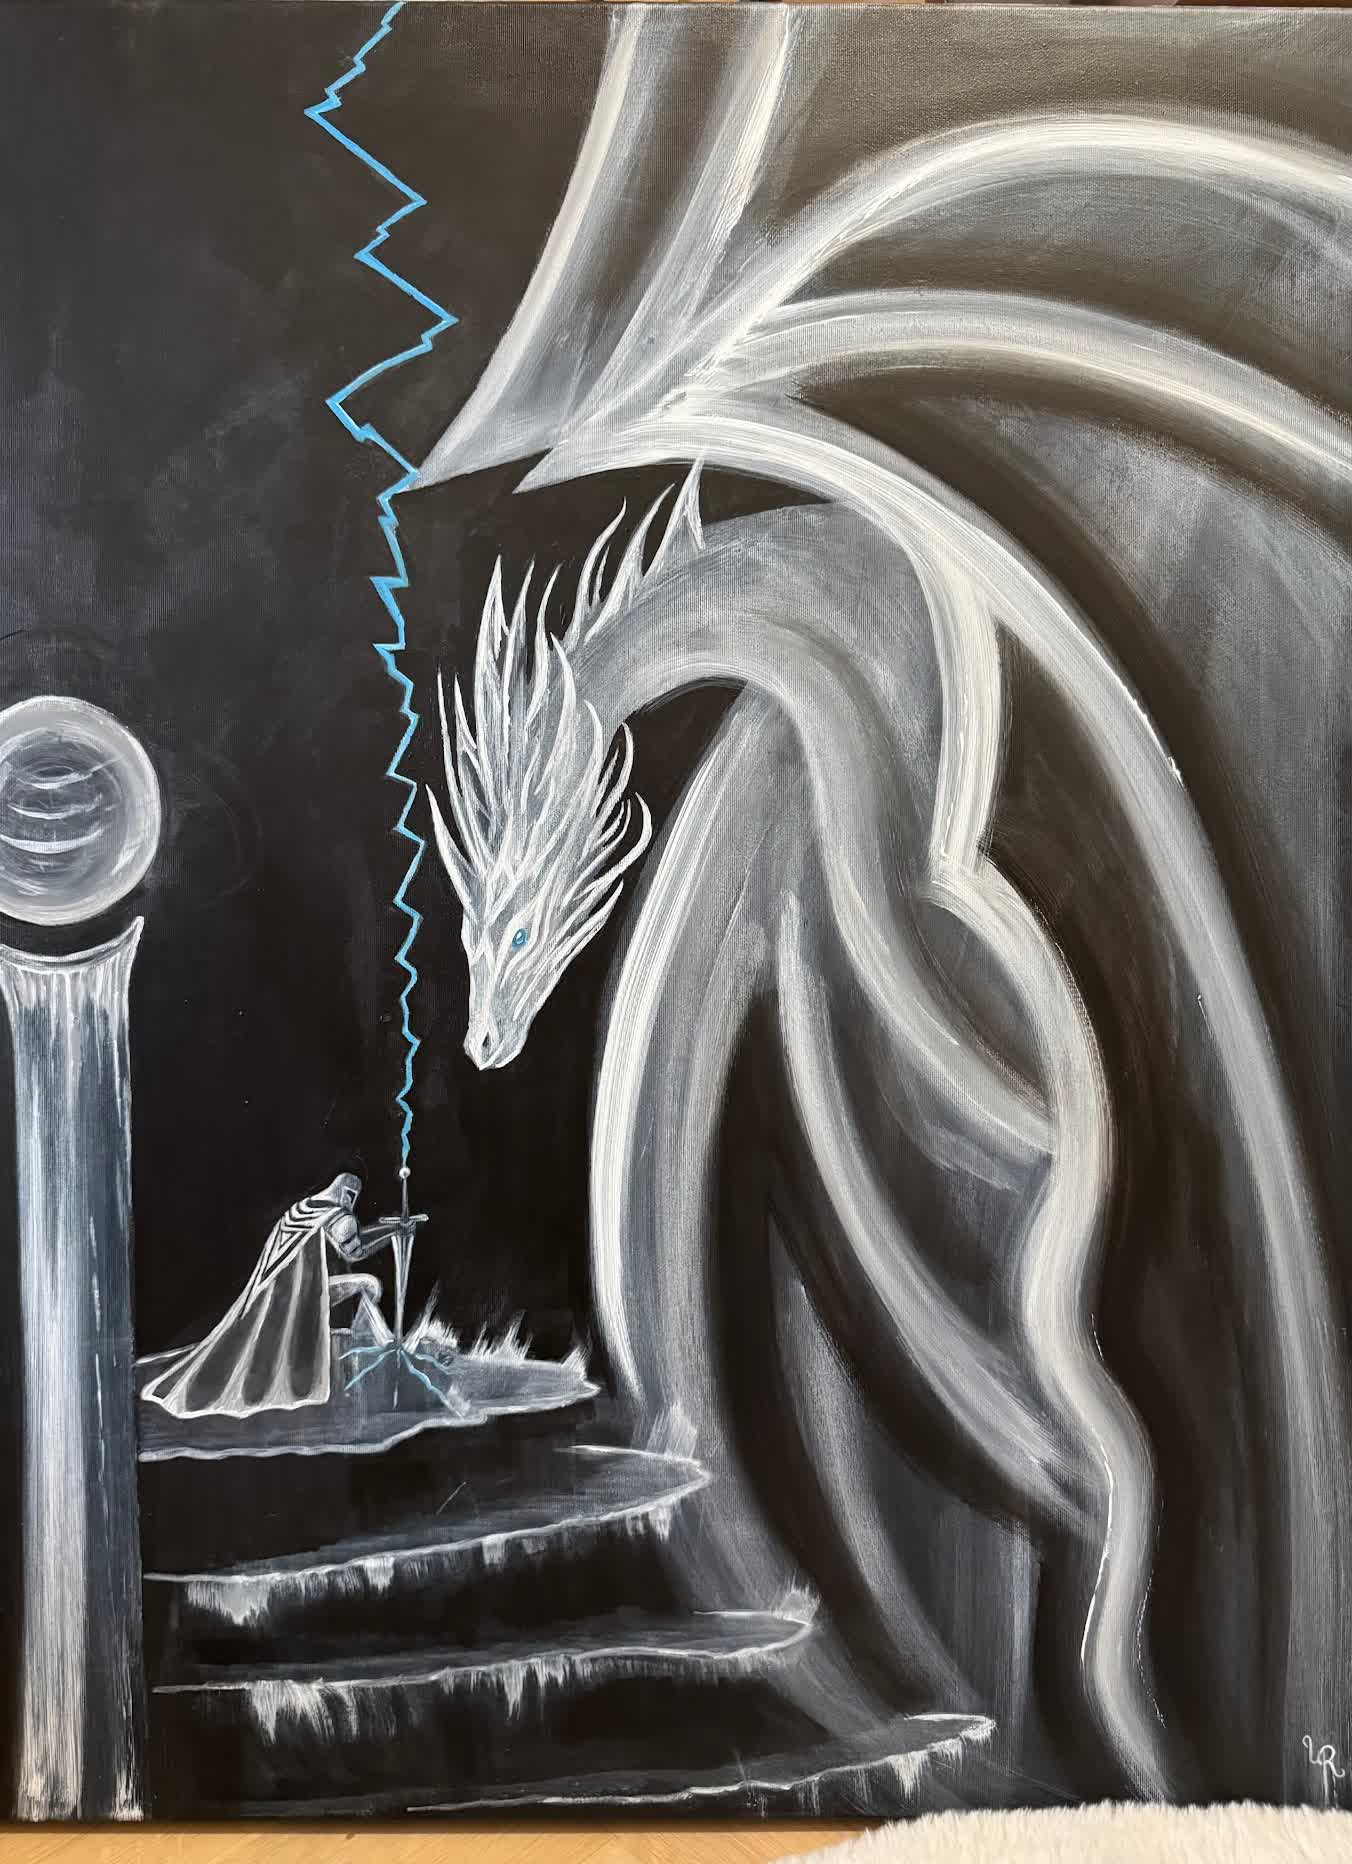
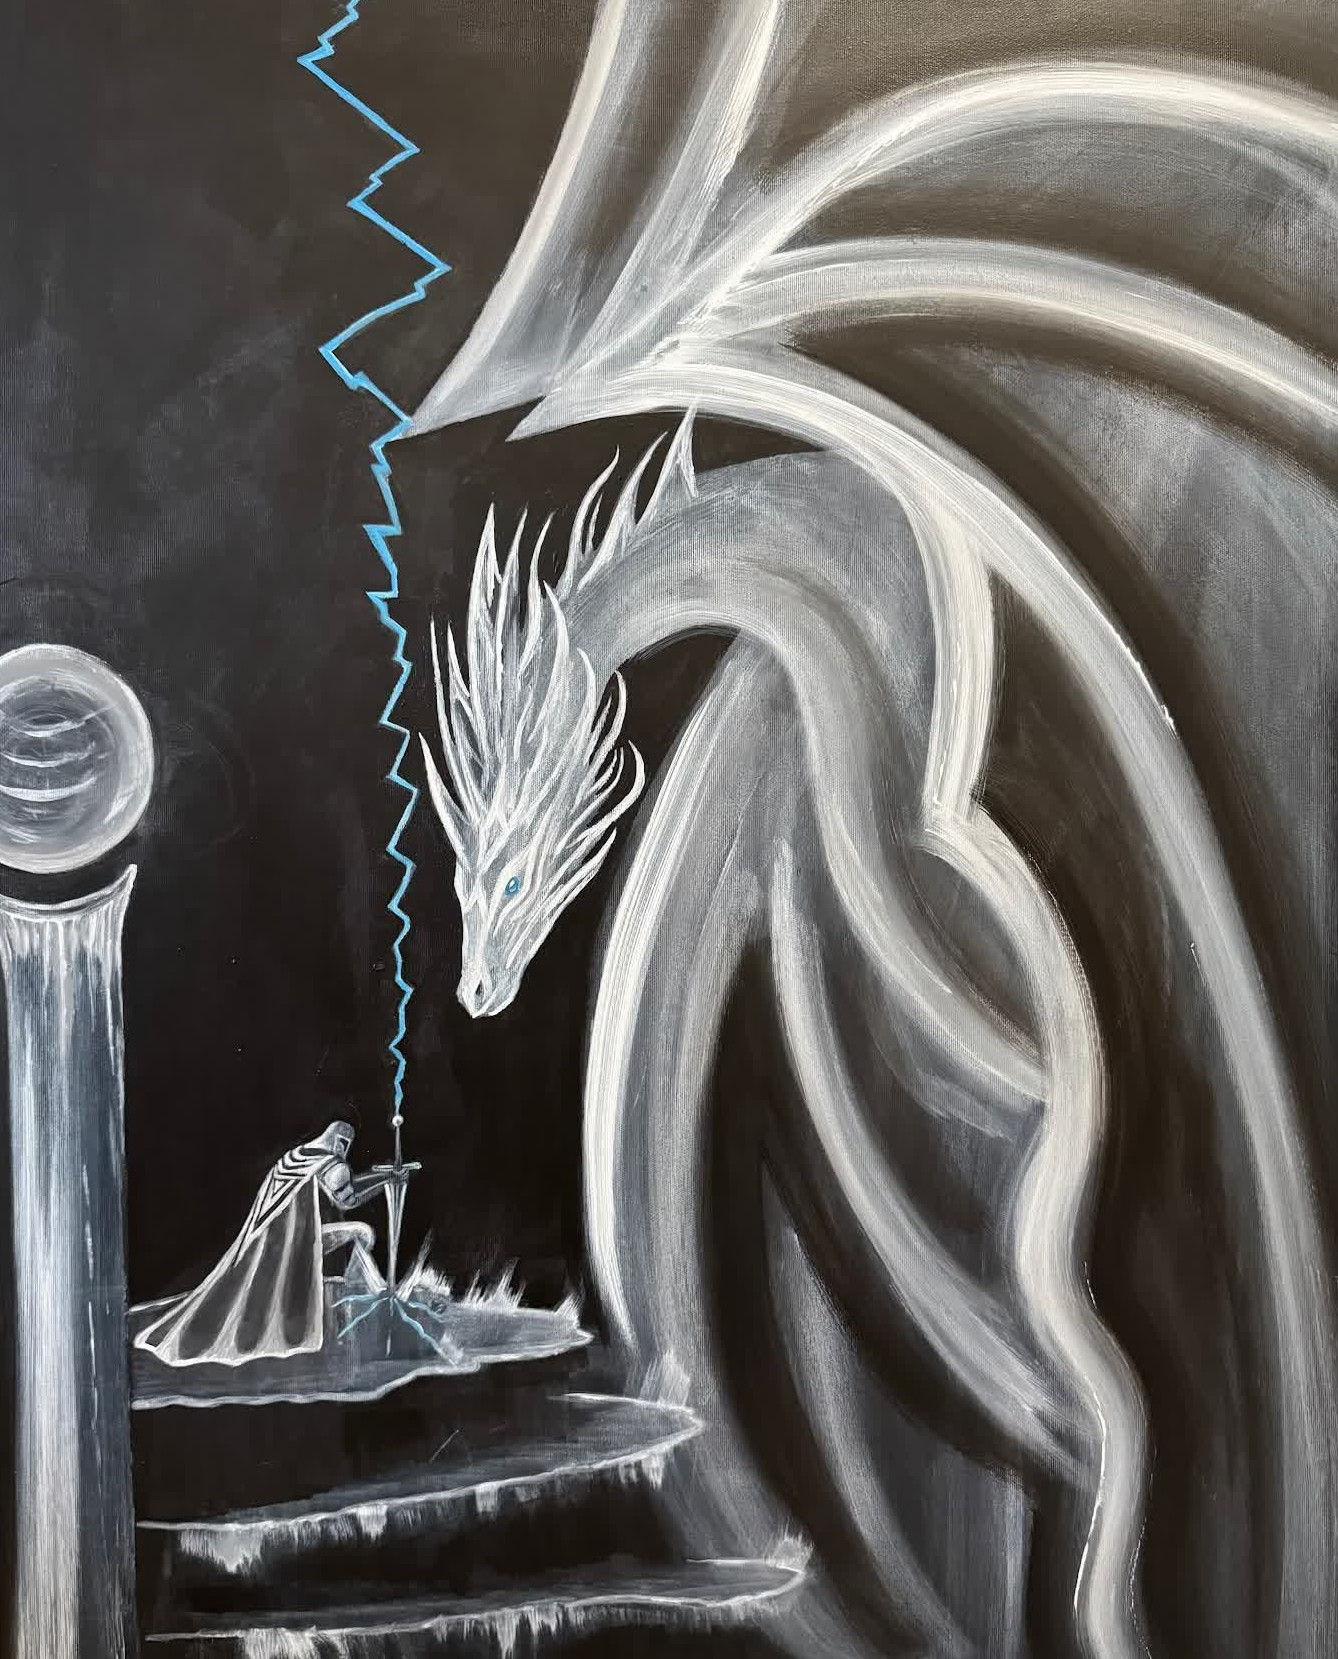
Add Urska's 16 photos, a real tarot deck, and re-crop The Prophecy
Photos: all 16 go into a new "What they look like on a wall" section at
the bottom of /collection - a masonry gallery that keeps each frame's
own proportions, ordered so the pieces alternate instead of running six
near-identical shots of the same painting together.

Deliberately did NOT swap the five catalogue shots for the new ones:
the existing files are ~1400x1864, while a painting cropped out of the
new frames lands at 284-905px, so the artwork pages would have got
softer, not sharper. Instead the old "The Prophecy" photo is re-cropped
to drop the floor, rug and wooden edge - her "better crop the existing
images" note, without losing resolution.

Tarot: the cards now show real illustrated artwork instead of glyphs,
using the public-domain 1909 Rider-Waite-Smith deck. She asked me to
take a modern deck design off the internet; that one is a living
illustrator's copyrighted work and would put the claim risk on her, so
this is the licensable equivalent. Swapping in a commercially licensed
deck later means replacing public/images/tarot/*.jpg and nothing else.
Card faces also needed transform-style: flat - inheriting the flip
wrapper's preserve-3d made the artwork silently fail to paint.

diff --git a/src/components/spirituality/TarotReading.tsx b/src/components/spirituality/TarotReading.tsx
@@ -8,7 +8,7 @@ import TarotIcon from "./TarotIcon";
 import TarotCardFrame from "./TarotCardFrame";
 import ScratchCard from "./ScratchCard";
 import TarotEmailSignup from "./TarotEmailSignup";
-import { TAROT_CARDS, getCardOfTheDayKey, type Lang } from "./tarotData";
+import { TAROT_CARDS, getCardOfTheDayKey, tarotImage, type Lang } from "./tarotData";
 
 const LABELS: Record<
   Lang,
@@ -20,7 +20,6 @@ const LABELS: Record<
     cardOfDay: string;
     yourCard: string;
     chooseInstead: string;
-    numberPrefix: string;
     backHint: string;
   }
 > = {
@@ -33,7 +32,6 @@ const LABELS: Record<
     cardOfDay: "Karta dneva",
     yourCard: "Tvoja karta",
     chooseInstead: "Ali izberi karto sama",
-    numberPrefix: "Karta",
     backHint: "Klikni za obračanje",
   },
   en: {
@@ -45,30 +43,9 @@ const LABELS: Record<
     cardOfDay: "Card of the day",
     yourCard: "Your card",
     chooseInstead: "Or choose a card yourself",
-    numberPrefix: "Card",
     backHint: "Click to turn",
   },
 };
-
-function romanNumeral(n: number): string {
-  if (n === 0) return "0";
-  const table: [number, string][] = [
-    [10, "X"],
-    [9, "IX"],
-    [5, "V"],
-    [4, "IV"],
-    [1, "I"],
-  ];
-  let remaining = n;
-  let out = "";
-  for (const [value, symbol] of table) {
-    while (remaining >= value) {
-      out += symbol;
-      remaining -= value;
-    }
-  }
-  return out;
-}
 
 export default function TarotReading({ lang }: { lang: Lang }) {
   const reduceMotion = useReducedMotion();
@@ -177,70 +154,31 @@ export default function TarotReading({ lang }: { lang: Lang }) {
 
             {/* Front */}
             <div
-              className="absolute inset-0 flex flex-col items-center overflow-hidden rounded-lg border px-4 py-6 text-center"
+              className="absolute inset-0 overflow-hidden rounded-lg border"
               style={{
                 backfaceVisibility: "hidden",
+                // Without flattening, the card art inherits the wrapper's preserve-3d and
+                // silently fails to paint once the card is flipped — the face renders blank.
+                transformStyle: "flat",
                 transform: "rotateY(180deg)",
                 borderColor: "color-mix(in srgb, var(--color-accent-warm) 45%, transparent)",
-                background:
-                  "radial-gradient(circle at 50% 40%, color-mix(in srgb, var(--color-accent-warm) 11%, var(--color-ink)) 0%, var(--color-ink) 75%)",
+                background: "var(--color-ink)",
                 boxShadow:
                   "0 25px 60px -25px rgba(0,0,0,0.6), 0 0 40px -10px color-mix(in srgb, var(--color-accent-warm) 22%, transparent)",
               }}
             >
-              <TarotCardFrame />
+              {/* The deck artwork already carries its own border, numeral and title, so
+                  it fills the whole card face rather than sitting inside our frame. */}
               {selected && (
-                <>
-                  <span
-                    className="relative z-10 text-[11px] tracking-[0.35em]"
-                    style={{ color: "color-mix(in srgb, var(--color-accent-warm) 85%, transparent)" }}
-                  >
-                    {romanNumeral(selected.number)}
-                  </span>
-
-                  <div className="relative z-10 flex flex-1 items-center justify-center py-3">
-                    {selected.image ? (
-                      <div className="relative h-full w-full overflow-hidden rounded-sm">
-                        <Image
-                          src={selected.image}
-                          alt={selected.name[lang]}
-                          fill
-                          sizes="250px"
-                          className="object-cover"
-                        />
-                      </div>
-                    ) : (
-                      <span
-                        className="flex h-24 w-24 items-center justify-center rounded-full p-5"
-                        style={{
-                          background:
-                            "radial-gradient(circle at 35% 30%, var(--color-accent-warm), var(--color-terracotta) 75%)",
-                          color: "var(--color-ink)",
-                          boxShadow:
-                            "0 0 0 1px color-mix(in srgb, var(--color-accent-warm) 60%, transparent), 0 0 50px 10px color-mix(in srgb, var(--color-accent-warm) 40%, transparent)",
-                        }}
-                      >
-                        <TarotIcon key={selected.key} cardKey={selected.key} className="h-full w-full" animateIn />
-                      </span>
-                    )}
-                  </div>
-
-                  <div className="relative z-10 w-full">
-                    <div
-                      className="mx-auto mb-2.5 h-px w-16"
-                      style={{
-                        background:
-                          "linear-gradient(90deg, transparent, color-mix(in srgb, var(--color-accent-warm) 60%, transparent), transparent)",
-                      }}
-                    />
-                    <h3
-                      className="font-heading text-[13px] tracking-[0.22em] uppercase leading-snug"
-                      style={{ color: "color-mix(in srgb, var(--color-accent-warm) 55%, var(--color-bone))" }}
-                    >
-                      {selected.name[lang]}
-                    </h3>
-                  </div>
-                </>
+                <Image
+                  key={selected.key}
+                  src={tarotImage(selected)}
+                  alt={selected.name[lang]}
+                  fill
+                  sizes="(min-width: 640px) 250px, 220px"
+                  className="rounded-lg object-cover"
+                  priority
+                />
               )}
             </div>
           </motion.div>
@@ -357,18 +295,21 @@ export default function TarotReading({ lang }: { lang: Lang }) {
                 aria-pressed={isSelected}
                 aria-label={card.name[lang]}
                 title={card.name[lang]}
-                className="flex h-11 w-8 items-center justify-center rounded-sm border p-1.5 transition-transform hover:scale-110"
+                className="relative h-[68px] w-10 overflow-hidden rounded-sm border transition-all hover:scale-110"
                 style={{
                   borderColor: isSelected
                     ? "var(--color-accent-warm)"
                     : "color-mix(in srgb, var(--color-bone) 15%, transparent)",
-                  background: isSelected
-                    ? "color-mix(in srgb, var(--color-accent-warm) 18%, transparent)"
-                    : "transparent",
-                  color: isSelected ? "var(--color-accent-warm)" : "var(--color-smoke)",
+                  opacity: isSelected ? 1 : 0.62,
                 }}
               >
-                <TarotIcon cardKey={card.key} className="h-full w-full" />
+                <Image
+                  src={tarotImage(card)}
+                  alt=""
+                  fill
+                  sizes="40px"
+                  className="object-cover"
+                />
               </button>
             );
           })}

diff --git a/src/components/collection/InTheHome.tsx b/src/components/collection/InTheHome.tsx
@@ -1,0 +1,82 @@
+import Image from "next/image";
+import Container from "@/components/shared/Container";
+
+/**
+ * Urška's own photographs of the originals on real walls — the one thing a catalogue
+ * shot can't show a buyer: scale, and how a piece actually lives in a room. Laid out
+ * as a masonry column so every frame keeps the proportions it was shot in, and
+ * ordered to alternate between pieces rather than running six near-identical frames
+ * of the same painting in a row. The two wide "whole collection" shots bookend it.
+ */
+type Shot = { src: string; width: number; height: number; alt: string };
+
+const GALLERY: Shot[] = [
+  { src: "/images/on-wall-heart.jpg", width: 1004, height: 1302, alt: "\"Somehow My Heart Still Remembers You\" on a plain white wall" },
+  { src: "/images/on-wall-birds.jpg", width: 1023, height: 1560, alt: "\"Birds of Light\" hanging beside a feathered dreamcatcher" },
+  { src: "/images/on-wall-prophecy.jpg", width: 987, height: 1614, alt: "\"The Prophecy\" alone on a white wall" },
+  { src: "/images/in-home-heart-1.jpg", width: 1072, height: 1607, alt: "The turquoise canvas above a pale sofa" },
+  { src: "/images/in-home-birds-1.jpg", width: 1080, height: 1620, alt: "\"Birds of Light\" above a sofa dressed in rose and plum" },
+  { src: "/images/in-home-prophecy-1.jpg", width: 883, height: 1202, alt: "\"The Prophecy\" below a beaded ceiling light" },
+  { src: "/images/in-home-heart-2.jpg", width: 1080, height: 1620, alt: "The living room seen past a white orchid" },
+  { src: "/images/in-home-birds-2.jpg", width: 1080, height: 1620, alt: "\"Birds of Light\" seen from across the room" },
+  { src: "/images/on-wall-blossoming.jpg", width: 1056, height: 1584, alt: "\"Blossoming Love\" resting on a shelf between trailing plants" },
+  { src: "/images/in-home-heart-3.jpg", width: 1080, height: 1620, alt: "The full living room, with plants and a low round table" },
+  { src: "/images/in-home-shelf-1.jpg", width: 1289, height: 1080, alt: "\"Eternal Love\" and \"Blossoming Love\" on two white shelves" },
+  { src: "/images/in-home-heart-4.jpg", width: 1080, height: 1620, alt: "The turquoise canvas in the corner of the room" },
+  { src: "/images/in-home-shelf-2.jpg", width: 1078, height: 1146, alt: "The two smaller canvases seen from the side, among plants and crystals" },
+  { src: "/images/in-home-heart-5.jpg", width: 1080, height: 1620, alt: "The living room wall seen through trailing ivy" },
+];
+
+function WideShot({ src, alt, ratio }: { src: string; alt: string; ratio: string }) {
+  return (
+    <div className="relative w-full overflow-hidden rounded-sm" style={{ aspectRatio: ratio }}>
+      <Image src={src} alt={alt} fill sizes="(min-width: 1280px) 1200px, 100vw" className="object-cover" />
+    </div>
+  );
+}
+
+export default function InTheHome() {
+  return (
+    <section className="border-t border-bone/10 bg-ink py-24 md:py-32">
+      <Container>
+        <span className="block text-xs tracking-widest uppercase text-smoke">In a home</span>
+        <h2 className="font-gothic text-3xl md:text-4xl text-bone mt-4">
+          What they look like on a wall
+        </h2>
+        <p className="mt-5 max-w-xl text-bone/70 leading-relaxed">
+          Every piece here is an original, photographed where it actually hangs — so you can see
+          the scale before it ever reaches your own wall.
+        </p>
+
+        <div className="mt-14">
+          <WideShot
+            src="/images/collection-together-1.jpg"
+            alt="All five originals lined up together against a garden window"
+            ratio="1569 / 684"
+          />
+        </div>
+
+        <div className="mt-6 gap-6 [column-fill:_balance] sm:columns-2 lg:columns-3">
+          {GALLERY.map((shot) => (
+            <div key={shot.src} className="mb-6 break-inside-avoid overflow-hidden rounded-sm">
+              <Image
+                src={shot.src}
+                alt={shot.alt}
+                width={shot.width}
+                height={shot.height}
+                sizes="(min-width: 1024px) 33vw, (min-width: 640px) 50vw, 100vw"
+                className="h-auto w-full"
+              />
+            </div>
+          ))}
+        </div>
+
+        <WideShot
+          src="/images/collection-together-2.jpg"
+          alt="Three of the large originals side by side on the terrace"
+          ratio="1578 / 679"
+        />
+      </Container>
+    </section>
+  );
+}

diff --git a/src/components/spirituality/tarotData.ts b/src/components/spirituality/tarotData.ts
@@ -4,10 +4,9 @@ export interface TarotCard {
   key: string;
   number: number;
   name: { sl: string; en: string };
-  /** Path under `public/` to this card's illustration (e.g. "/images/tarot/fool.jpg").
-   *  When set, the card shows the artwork; when absent it falls back to the
-   *  constellation glyph. Urška is supplying the illustrated deck — dropping the
-   *  files in and adding this one line per card is all that's needed. */
+  /** Overrides the deck artwork for this one card. Normally left unset — the image
+   *  is derived from the key by `tarotImage()`, so a whole new deck is a matter of
+   *  replacing the files in `public/images/tarot/`. */
   image?: string;
   /** 3-4 word association list shown as tags under the card name. */
   keywords: { sl: string[]; en: string[] };
@@ -332,6 +331,16 @@ export const TAROT_CARDS: TarotCard[] = [
     },
   },
 ];
+
+/**
+ * The deck artwork for a card. These are the original 1909 Rider–Waite–Smith
+ * illustrations by Pamela Colman Smith — public domain, so they're safe to use
+ * commercially, unlike the modern deck design that inspired this. Swapping in a
+ * licensed deck later means replacing the files in `public/images/tarot/`, nothing else.
+ */
+export function tarotImage(card: TarotCard): string {
+  return card.image ?? `/images/tarot/${card.key}.jpg`;
+}
 
 export function getCardOfTheDayKey(): string {
   const now = new Date();

diff --git a/src/app/collection/page.tsx b/src/app/collection/page.tsx
@@ -1,14 +1,20 @@
 import type { Metadata } from "next";
 import CollectionContent from "@/components/collection/CollectionContent";
+import InTheHome from "@/components/collection/InTheHome";
 import { getAllArtworks } from "@/lib/content";
 
 export const metadata: Metadata = {
-  title: "Collection — Art by Urška",
+  title: "Art — Art by Urška",
   description: "The complete collection of original paintings by Urška.",
   alternates: { canonical: "/collection" },
 };
 
 export default function CollectionPage() {
   const artworks = getAllArtworks();
-  return <CollectionContent artworks={artworks} />;
+  return (
+    <>
+      <CollectionContent artworks={artworks} />
+      <InTheHome />
+    </>
+  );
 }

diff --git a/src/components/collection/CollectionContent.tsx b/src/components/collection/CollectionContent.tsx
@@ -12,7 +12,7 @@ export default function CollectionContent({ artworks }: { artworks: Artwork[] })
   const [openIndex, setOpenIndex] = useState<number | null>(null);
 
   return (
-    <section className="py-24 md:py-32 bg-ink min-h-screen">
+    <section className="py-24 md:py-32 bg-ink">
       <Container>
         <span className="block text-xs tracking-widest uppercase text-smoke">Art</span>
         <h1 className="font-gothic text-4xl md:text-5xl text-bone mt-4 mb-14">

diff --git a/OWNER_ACTION_REQUIRED.md b/OWNER_ACTION_REQUIRED.md
@@ -1,5 +1,39 @@
 # Owner Action Required
 
+## TO DO list worked through (2026-09-12) — three things still need you
+
+From your shared note and the 16 photos: pricing is in (20 min = 50 €, 50 min = 100 €),
+"Gallery" is now "Art" everywhere, the homepage opens with your "more than art" line, the
+monogram plays for a moment on every visit, Poetry is a live page again, and Spirituality
+opens with your own quote.
+
+**Your 16 photos** are all on the site. The five catalogue shots were *not* replaced with
+them: the existing photos are ~1400×1864, while a painting cropped out of the new frames
+comes to 284–905px, so swapping them in would have made the artwork pages softer, not
+sharper. Instead the old "The Prophecy" photo was re-cropped to drop the floor, rug and
+wooden edge (your "boljše obrezat" point), and all 16 new photos went into a new
+**"What they look like on a wall"** section at the bottom of `/collection` — the thing the
+catalogue shots can't show a buyer. If you'd rather have a new photo as an artwork's main
+image anyway, say which and I'll swap it.
+
+- [ ] **The logo.** The intro still uses the existing UR monogram. Send the "Luxury UR
+      Monogram Emblem" file and it drops straight into `Logo.tsx` / the intro.
+- [ ] **The rest of your quotes.** Poetry and Spirituality each show only the first quote
+      you sent — the others live in the shared "trejderji 101" note, which I can't reach
+      (it isn't in Drive). Paste them here or put them in Drive and they slot straight into
+      `POETRY_QUOTES` / the Spirituality copy. The Slovenian of your Spirituality quote is
+      my translation of your English — reword it if you'd say it differently.
+- [ ] **Tarot deck licensing (read this one).** You asked me to find a deck like the one you
+      sent online and use it. I didn't: that design is a modern illustrator's copyrighted
+      work, and putting it on a shop site risks a claim against you. The cards on the site
+      now are the original 1909 Rider–Waite–Smith deck, which is **public domain** and free
+      to use commercially. They're real illustrated cards, but they look vintage, not like
+      your gold-line reference. If you want that modern look, buy a deck with a commercial
+      licence (Creative Market and Etsy sell them) and send the files — replacing
+      `public/images/tarot/*.jpg` is all it takes. Note the RWS deck includes some classical
+      nudity (The Star, The World, The Lovers, The Devil) — normal for fine-art tarot, but
+      worth knowing it's there.
+
 ## Live Tarot Reading booking (2026-09-06) — needs a database, email/SMS, and a scheduling job
 
 Added a "Live Tarot Reading" section right under the card reading, so visitors can request a
